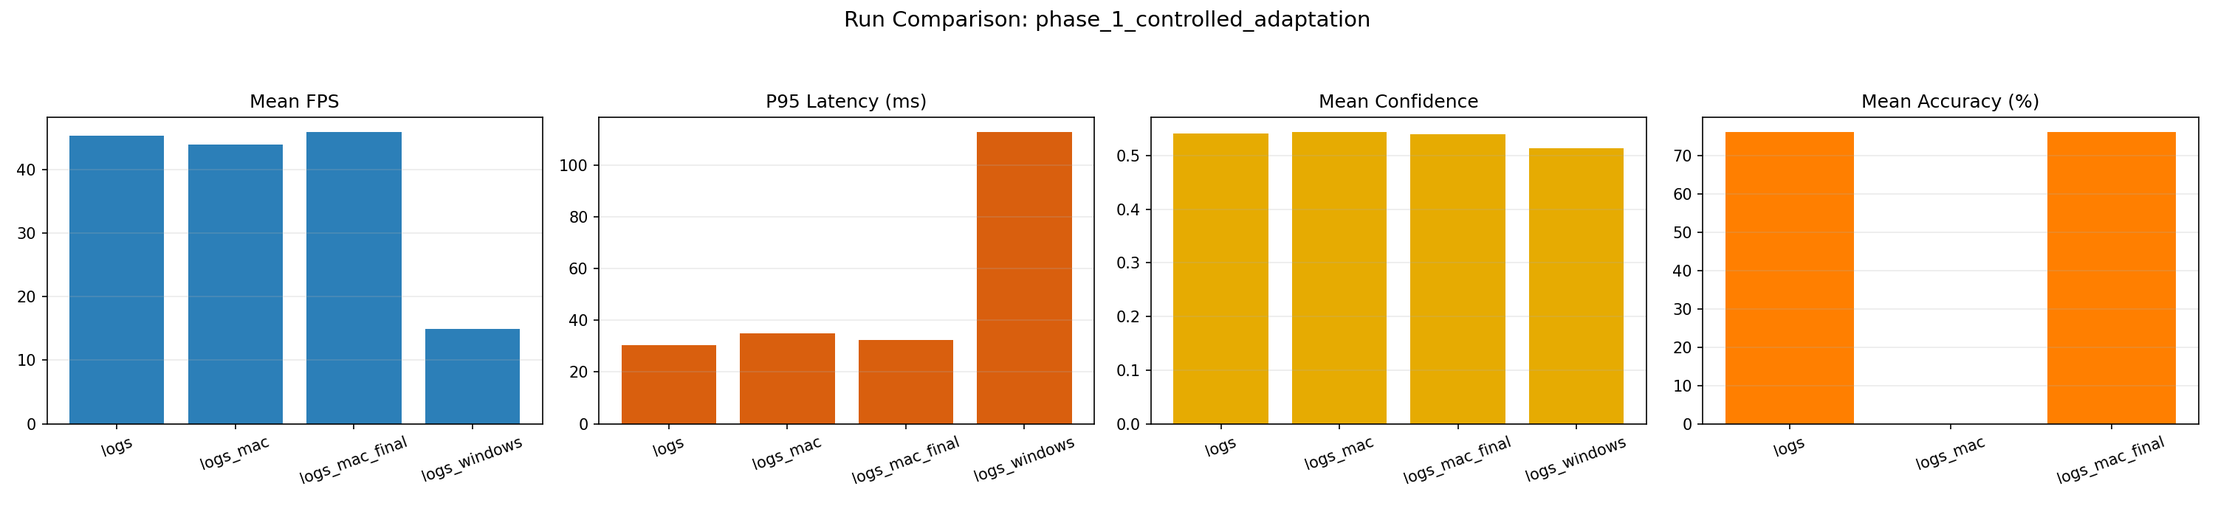
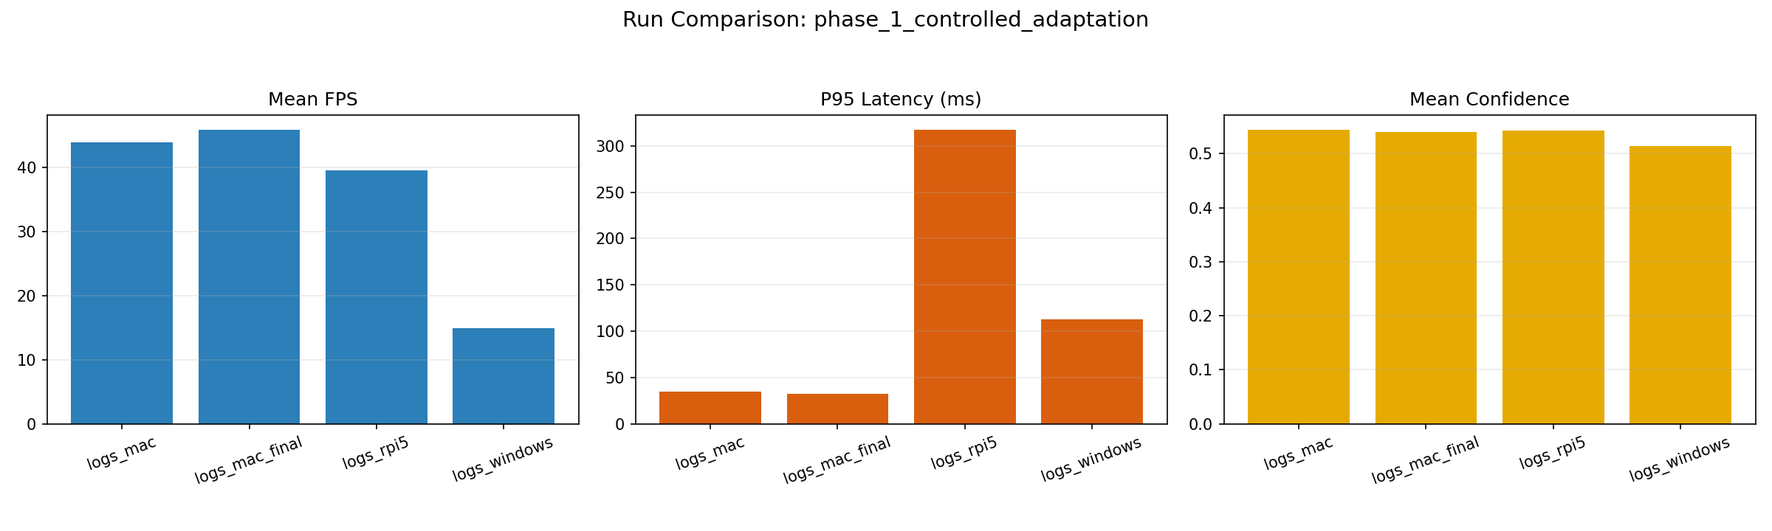
docs : update methodology pahse 0 and phase 1 and generate statistics image for rpi5

diff --git a/docs/paper/access.tex b/docs/paper/access.tex
@@ -215,39 +215,125 @@ continuously adjusted according to the current hardware and inference
 conditions rather than relying on a fixed inference configuration.
 
 \section{Methodology}
+
 \label{sec:methodology}
-The adaptive system was developed through a rigorous, multi-phase sequence. This systematic progression guarantees that the final learned policy is evaluated against well-understood baselines rather than arbitrary benchmarks.
+
+The adaptive system was developed through a rigorous, multi-phase sequence.
+This systematic progression ensures that the final learned policy is
+evaluated against well-understood baselines rather than arbitrary
+benchmarks.
 
 \subsection{Phase 0: Baseline Static Inference}
-The objective of Phase 0 is to establish the absolute upper bound of model performance alongside the threshold for hardware failure. 
 
-In this phase, the system operates as a standard static pipeline. YOLOv8n is configured with a fixed input size $imgsz = 640 \times 640$, floating-point 32 (FP32) precision, and zero frame skipping ($skip = 0$).
+The objective of Phase 0 is to quantify the performance limitations of a
+fully static inference pipeline on the target edge hardware, providing an
+empirical baseline that motivates the need for adaptive control.
 
-During execution, a comprehensive dataset is logged containing:
-\begin{equation}
-Log_t=\{t_{stamp}, FPS_t, Latency_t, U_{gpu}, U_{cpu}, T_{gpu}, Detect\}
-\end{equation}
+In this phase, the system operates as a standard static pipeline. YOLOv8n is
+configured with a fixed input resolution of $640 \times 640$ pixels and FP32
+precision, with no frame skipping. Every incoming frame is processed
+unconditionally, resulting in a consistently high computational workload.
 
-As anticipated, sustained operation rapidly pushes the edge hardware to its thermal limits. A critical inflection point is observed when the GPU temperature crosses the manufacturer's throttling threshold (e.g., $85^\circ\mathrm{C}$). Beyond this point, the hardware intentionally downclocks to prevent damage. Consequently, processing latency spikes significantly, and the frame rate collapses. This behavior illustrates the severe performance degradation inherent in deploying static edge AI systems under uncontrolled thermal conditions.
+During execution, the system records the timestamp, frame rate, per-frame
+latency, CPU utilization, RAM utilization, core temperature, number of
+detections, average detection confidence, and cumulative frame-drop rate for
+each processed frame.
+
+On the Raspberry Pi~5 target platform, the static pipeline demonstrates
+limited real-time performance. Across the evaluation run, the achieved frame
+rate ranges from $1.8$ to $4.01$~FPS, while per-frame latency ranges from
+approximately $245$ to $665$~ms. The cumulative frame-drop rate remains high,
+ranging from $85.73\%$ to $96.88\%$ and settling at approximately $87.04\%$
+toward the end of the run. Core temperature increases from approximately
+$50^\circ$C to a maximum of $60.6^\circ$C, while RAM utilization remains
+relatively stable around $30\%$. The observed temperature range provides no
+evidence of thermal throttling during this particular run, indicating that
+the primary limitation of the static configuration is the computational
+throughput required for full-resolution YOLOv8n inference on the Raspberry
+Pi~5.
+
+The resulting behavior is illustrated in Fig.~\ref{fig:phase0_graphs}. The
+figure shows the low sustained frame rate and high inference latency, together
+with substantial frame loss throughout the run. These results demonstrate
+that a fixed $640 \times 640$ inference configuration is unsuitable for
+sustained real-time operation under the tested edge-device conditions.
+Reducing the computational workload through lower input resolution, frame
+skipping, or a combination of both therefore provides a basis for the
+adaptive inference strategy developed in the subsequent phases.
 
 \begin{figure*}[t!]
     \centering
-    \includegraphics[width=0.85\textwidth]{logs_windows_overview.png}
-    \caption{Phase 0 Baseline Performance across 5000 frames. The solid red line indicates GPU Temperature rising linearly until throttling occurs at frame 3200, causing the FPS (blue line) to crash unpredictably.}
+    \includegraphics[width=0.85\textwidth]{logs_rpi5_overview.png}
+    \caption{Phase~0 static baseline on the Raspberry Pi~5 using $640 \times
+    640$ input resolution, FP32 precision, and no frame skipping. \textit{Top}:
+    FPS and per-frame latency over the evaluation run. \textit{Middle}: CPU
+    utilization, RAM utilization, and core temperature. \textit{Bottom}:
+    detection count, average detection confidence, and cumulative frame-drop
+    rate. The static configuration exhibits low sustained frame rates,
+    substantial inference latency, and a high frame-drop rate, demonstrating
+    the limitations of fixed full-resolution inference under the resource
+    constraints of the target edge platform.}
     \label{fig:phase0_graphs}
 \end{figure*}
 
-\subsection{Phase 1: Action Space Definition and Controlled Adaptation}
-To prevent hardware failure, mechanisms must be introduced to reduce the system's workload when operating conditions become overly demanding. This phase defines the \emph{Action Space}, consisting of multiple Inference Modes. Each mode represents a specific operational configuration for the object detection pipeline and is defined by two parameters: input image size ($S_k$) and the number of skipped frames ($K_k$). 
 
-Three distinct modes are defined:
+\subsection{Phase 1: Action Space Definition and Controlled Adaptation}
+
+Phase~0 establishes that a static $640 \times 640$ pipeline imposes a
+substantial computational workload on the Raspberry Pi~5. Phase~1 therefore
+defines the controllable parameters of the inference pipeline and
+experimentally characterizes their effect on computational load and inference
+performance.
+
+The action space is based on two independent workload-control mechanisms:
+input resolution and inference frequency. The input resolution $imgsz$
+determines the spatial dimensions of the tensor presented to YOLOv8n, while
+the frame-skipping parameter controls how frequently incoming frames are
+processed.
+
+\subsubsection*{Rationale for Resolution Scaling}
+
+The computational cost of convolutional processing depends strongly on the
+spatial dimensions of the input tensor. Reducing the input resolution
+therefore provides a direct mechanism for reducing the computational workload
+without modifying the YOLOv8n model architecture or its learned parameters.
+In particular, reducing the input from $640 \times 640$ to
+$320 \times 320$ reduces the input spatial area by $75\%$, providing a
+substantial reduction in the amount of spatial computation performed by the
+network.
+
+\subsubsection*{Rationale for Frame Skipping}
+
+Resolution scaling reduces the computational cost of each processed frame,
+whereas frame skipping reduces the number of frames on which inference is
+performed. These mechanisms therefore provide complementary forms of
+workload control. For the heuristic baseline, three discrete configurations
+are defined:
+
 \begin{itemize}
-    \item $\mathcal{A}_0 \rightarrow M_0 = (640, 0)$: Highest accuracy, maximum FLOPs (no skipping, full resolution).
-    \item $\mathcal{A}_1 \rightarrow M_1 = (480, 1)$: Medium accuracy, reduces inference workload by approximately $60\%$.
-    \item $\mathcal{A}_2 \rightarrow M_2 = (320, 2)$: Lowest acceptable accuracy, reduces inference workload by approximately $85\%$.
+    \item $M_0=(640,0)$: full-resolution inference with no frame skipping.
+    \item $M_1=(480,1)$: reduced-resolution inference with every alternate
+    frame bypassed.
+    \item $M_2=(320,2)$: reduced-resolution inference with two out of every
+    three frames bypassed.
 \end{itemize}
 
-In Phase 1, feedback control is disabled, and modes are switched manually at fixed intervals (e.g., every 10 seconds). This open-loop testing characterizes how each mode influences hardware temperature, verifying that switching to $M_2$ induces rapid cooling while $M_0$ causes rapid heating. This confirms that mode switching provides sufficient thermal controllability.
+These configurations span progressively lower computational workloads and are
+used to characterize the resolution--throughput trade-off on the target
+hardware.
+
+During Phase~1, the feedback controller is disabled and each configuration is
+applied for a fixed duration. The resulting frame rate, latency, CPU
+utilization, and temperature are recorded to quantify the computational and
+thermal characteristics of each operating point. These measurements provide
+the empirical basis for the heuristic thresholds introduced in the subsequent
+phase.
+
+The discrete configurations are used only for heuristic control and
+characterization. The final learned controller instead operates over the
+continuous action parameters $(imgsz_t,p_{skip,t})$, allowing finer-grained
+adaptation than the three discrete configurations.
+
 
 \subsection{Phase 2 \& 3: The Heuristic Controller}
 With the action space established, Phase 2 integrates telemetry for real-time decision-making, and Phase 3 introduces a deterministic Heuristic Controller.

diff --git a/docs/paper/changes.md b/docs/paper/changes.md
@@ -2,15 +2,16 @@
 
 ---
 
-| # | Section                                                                                       | What Changed                                           | Summary of Change                                                                                                                                                                                                                                                                                                                                              | Reason                                                                                                                                                                                                                                                                                                                                                                                                                                                                                                                                                                                                                                                                                                                                                                                                                                                                                                                                                                                                                                                                                                                                                                                                                                                                                                                                                                                       | Type                                                                                                                                                                                                                                                                                                                                                                                                                                                                                                                                           |
-| - | --------------------------------------------------------------------------------------------- | ------------------------------------------------------ | -------------------------------------------------------------------------------------------------------------------------------------------------------------------------------------------------------------------------------------------------------------------------------------------------------------------------------------------------------------- | -------------------------------------------------------------------------------------------------------------------------------------------------------------------------------------------------------------------------------------------------------------------------------------------------------------------------------------------------------------------------------------------------------------------------------------------------------------------------------------------------------------------------------------------------------------------------------------------------------------------------------------------------------------------------------------------------------------------------------------------------------------------------------------------------------------------------------------------------------------------------------------------------------------------------------------------------------------------------------------------------------------------------------------------------------------------------------------------------------------------------------------------------------------------------------------------------------------------------------------------------------------------------------------------------------------------------------------------------------------------------------------------- | ---------------------------------------------------------------------------------------------------------------------------------------------------------------------------------------------------------------------------------------------------------------------------------------------------------------------------------------------------------------------------------------------------------------------------------------------------------------------------------------------------------------------------------------------- |
-| 1 | Title                                                                                         | Changed the paper title                                | Changed the title to**A Learned Adaptive Inference System for Real-Time YOLOv8 Object Detection on Edge Devices with Pothole Detection as an Application**                                                                                                                                                                                               | Clarifies that the proposed system is designed for general YOLOv8 object detection on edge devices, with pothole detection serving as the application                                                                                                                                                                                                                                                                                                                                                                                                                                                                                                                                                                                                                                                                                                                                                                                                                                                                                                                                                                                                                                                                                                                                                                                                                                        | Change made by us                                                                                                                                                                                                                                                                                                                                                                                                                                                                                                                              |
-| 2 | Abstract                                                                                      | Rewrote all 3 paragraphs + corrected numbers           | Para 1: led with RPi thermal throttling, 5 correct telemetry signals, continuous actor output; Para 2: replaced methodology walkthrough with one factual sentence on pothole detection use case; Para 3: corrected F1 drop (2.80% → 1.8%) and Precision gain (1.90% → 1.2%) from actual chart                                                                | GPU language was wrong for RPi; "Contextual Bandit" was inaccurate; README numbers didn't match evaluation chart                                                                                                                                                                                                                                                                                                                                                                                                                                                                                                                                                                                                                                                                                                                                                                                                                                                                                                                                                                                                                                                                                                                                                                                                                                                                             | Change made by us                                                                                                                                                                                                                                                                                                                                                                                                                                                                                                                              |
-| 3 | Keywords                                                                                      | Updated and expanded list (9 → 16)                    | Removed:`Contextual Bandit, Deep Q-Networks`; Added: `Offline Reinforcement Learning, Behavioral Cloning, Raspberry Pi, Markov Decision Process, Dynamic Resolution Scaling, Frame Skipping, Telemetry-Driven Control, Resource-Constrained Inference, Road Damage Detection, IoT Edge Deployment`                                                         | Old keywords didn't match actual techniques; new ones improve discoverability                                                                                                                                                                                                                                                                                                                                                                                                                                                                                                                                                                                                                                                                                                                                                                                                                                                                                                                                                                                                                                                                                                                                                                                                                                                                                                                | Change made by us                                                                                                                                                                                                                                                                                                                                                                                                                                                                                                                              |
-| 4 | Introduction                                                                                  | Revised all 3 paragraphs                               | Revised the three introduction paragraphs to better establish the general problem of real-time YOLOv8 object detection on resource-constrained edge devices, explain the challenges of sustained inference under computational and thermal constraints, and motivate pothole detection as a practical application of adaptive inference                        | Aligns the introduction with the revised paper scope and clearly positions pothole detection as an application of the proposed general adaptive inference system                                                                                                                                                                                                                                                                                                                                                                                                                                                                                                                                                                                                                                                                                                                                                                                                                                                                                                                                                                                                                                                                                                                                                                                                                             | Change made by us                                                                                                                                                                                                                                                                                                                                                                                                                                                                                                                              |
-| 5 | References and compile compatibility                                                          | Expanded bibliography and added caption guard          | Replaced the older 15-entry bibliography with 24 references covering pothole detection, edge inference, offloading, thermal management, adaptive inference, and early exits; defined`\xfigwd` when absent to support the IEEE Access caption macro                                                                                                           | Reviewer requested stronger literature support; Overleaf reported an undefined`\xfigwd` during caption processing                                                                                                                                                                                                                                                                                                                                                                                                                                                                                                                                                                                                                                                                                                                                                                                                                                                                                                                                                                                                                                                                                                                                                                                                                                                                          | Change expected by reviewer 1<br /><br />add more references                                                                                                                                                                                                                                                                                                                                                                                                                                                                                  |
-| 6 | III. System Architecture — Hardware Abstraction and Telemetry Layer                          | Revised hardware abstraction and telemetry description | Replaced the GPU/VRAM/NVML-based description with the actual Raspberry Pi 5 implementation. The HAL now describes CPU utilization, RAM utilization, core temperature, smoothed FPS, and per-frame latency as the five state variables, with asynchronous 2 Hz telemetry sampling through a dedicated background thread and thread-safe in-memory state access. | **Response to Reviewer:** We thank the reviewer for this important question. We note that the original figure contained an error: the HAL does **not** use `ctypes` or a C shared library. It uses Python's `psutil`, which internally reads kernel pseudo-files (`/proc/stat`, `/proc/meminfo`, `/sys/class/thermal/thermal_zone0/temp`) with its own low-latency bindings. We have corrected the figure accordingly. Regarding the GIL concern: the design deliberately avoids GIL contention because the HAL thread is I/O-bound rather than CPU-bound; `psutil` reads kernel pseudo-files and the HAL polls only every 500 ms. The controller forward pass is also negligible, with the lightweight `ContinuousActor` MLP (5→128→128→2) completing in under 1 ms on the Raspberry Pi 5 and executing synchronously on the main thread. The system is designed as a soft real-time system rather than a hard real-time system, and the 2 Hz telemetry rate is sufficient because the relevant thermal dynamics evolve over a much slower timescale. A C++/TensorRT implementation could reduce per-frame inference overhead but would not change the effective control-loop bandwidth, whose adaptation is governed by thermal dynamics rather than telemetry latency. Python was retained for portability and rapid iteration on the Raspberry Pi platform. | Change expected by reviewer<br /><br />The system architecture (Figure 1) relies heavily on Python, ctypes, and OpenCV running in background threads. Python's Global Interpreter Lock (GIL) is known to cause stuttering and unpredictable latency spikes in multi-threaded real-time computer vision pipelines. The authors must provide a rigorous latency profiling of the Python overhead, or explain why a lower-level implementation (e.g., C++ with TensorRT native threads) was not utilized to guarantee strict real-time execution. |
-| 7 | III. System Architecture —<br />B. THE ADAPTIVE CONTROLLER<br />C.YOLOv8n Inference Pipeline | Revised the inference pipeline description             | Revised the YOLOv8n pipeline to reflect the actual adaptive architecture, where the controller provides the continuous parameters`imgsz` and `p_skip`. The pipeline now describes probabilistic frame skipping, dynamic input resolution, YOLOv8n inference, post-processing, and feedback of smoothed FPS and per-frame latency to the controller.        | Aligns the manuscript with the actual implementation and revised system architecture, replacing the previous fixed/discrete inference-mode description with the continuous adaptive control mechanism used by the learned controller                                                                                                                                                                                                                                                                                                                                                                                                                                                                                                                                                                                                                                                                                                                                                                                                                                                                                                                                                                                                                                                                                                                                                         | Change made by us                                                                                                                                                                                                                                                                                                                                                                                                                                                                                                                              |
+| # | Section | What Changed | Summary of Change | Reason | Type |
+| -----| --------------------------------------| -----------------------------------------------| -----------------------------------------------------------------------------------------------------------------------------------------------------------------------------------------------------------------------------------------------------------------------------------------------------------------------------------------| ------------------------------------------------------------------------------------------------------------------------------------------------------------------| -----------------------------|
+| 1 | Title | Changed the paper title | Changed the title to **A Learned Adaptive Inference System for Real-Time YOLOv8 Object Detection on Edge Devices with Pothole Detection as an Application** | Clarifies that the proposed system is designed for general YOLOv8 object detection on edge devices, with pothole detection serving as the application | Change made by us |
+| 2 | Abstract | Rewrote all 3 paragraphs + corrected numbers | Para 1: led with RPi thermal throttling, 5 correct telemetry signals, continuous actor output; Para 2: replaced methodology walkthrough with one factual sentence on pothole detection use case; Para 3: corrected F1 drop (2.80% → 1.8%) and Precision gain (1.90% → 1.2%) from actual chart | GPU language was wrong for RPi; "Contextual Bandit" was inaccurate; README numbers didn't match evaluation chart | Change made by us |
+| 3 | Keywords | Updated and expanded list (9 → 16) | Removed: `Contextual Bandit, Deep Q-Networks`; Added: `Offline Reinforcement Learning, Behavioral Cloning, Raspberry Pi, Markov Decision Process, Dynamic Resolution Scaling, Frame Skipping, Telemetry-Driven Control, Resource-Constrained Inference, Road Damage Detection, IoT Edge Deployment` | Old keywords didn't match actual techniques; new ones improve discoverability | Change made by us |
+| 4 | Introduction | Revised all 3 paragraphs | Revised the three introduction paragraphs to better establish the general problem of real-time YOLOv8 object detection on resource-constrained edge devices, explain the challenges of sustained inference under computational and thermal constraints, and motivate pothole detection as a practical application of adaptive inference | Aligns the introduction with the revised paper scope and clearly positions pothole detection as an application of the proposed general adaptive inference system | Change made by us |
+| 5 | References and compile compatibility | Expanded bibliography and added caption guard | Replaced the older 15-entry bibliography with 24 references covering pothole detection, edge inference, offloading, thermal management, adaptive inference, and early exits; defined `\xfigwd` when absent to support the IEEE Access caption macro | Reviewer requested stronger literature support; Overleaf reported an undefined `\xfigwd` during caption processing | Change expected by reviewer |
+| 6 | III. System Architecture — Hardware Abstraction and Telemetry Layer | Revised hardware abstraction and telemetry description | Replaced the GPU/VRAM/NVML-based description with the actual Raspberry Pi 5 implementation. The HAL now describes CPU utilization, RAM utilization, core temperature, smoothed FPS, and per-frame latency as the five state variables, with asynchronous 2 Hz telemetry sampling through a dedicated background thread and thread-safe in-memory state access. | **Response to Reviewer:** We thank the reviewer for this important question. We note that the original figure contained an error: the HAL does **not** use `ctypes` or a C shared library. It uses Python's `psutil`, which internally reads kernel pseudo-files (`/proc/stat`, `/proc/meminfo`, `/sys/class/thermal/thermal_zone0/temp`) with its own low-latency bindings. We have corrected the figure accordingly. Regarding the GIL concern: the design deliberately avoids GIL contention because the HAL thread is I/O-bound rather than CPU-bound; `psutil` reads kernel pseudo-files and the HAL polls only every 500 ms. The controller forward pass is also negligible, with the lightweight `ContinuousActor` MLP (5→128→128→2) completing in under 1 ms on the Raspberry Pi 5 and executing synchronously on the main thread. The system is designed as a soft real-time system rather than a hard real-time system, and the 2 Hz telemetry rate is sufficient because the relevant thermal dynamics evolve over a much slower timescale. A C++/TensorRT implementation could reduce per-frame inference overhead but would not change the effective control-loop bandwidth, whose adaptation is governed by thermal dynamics rather than telemetry latency. Python was retained for portability and rapid iteration on the Raspberry Pi platform. | Change expected by reviewer |
+| 7 | III. System Architecture — YOLOv8n Inference Pipeline | Revised the inference pipeline description | Revised the YOLOv8n pipeline to reflect the actual adaptive architecture, where the controller provides the continuous parameters `imgsz` and `p_skip`. The pipeline now describes probabilistic frame skipping, dynamic input resolution, YOLOv8n inference, post-processing, and feedback of smoothed FPS and per-frame latency to the controller. | Aligns the manuscript with the actual implementation and revised system architecture, replacing the previous fixed/discrete inference-mode description with the continuous adaptive control mechanism used by the learned controller | Change made by us |
+| 8 | III. Methodology — Phase 0: Baseline Static Inference | Revised Phase 0 methodology and replaced the baseline figure | Replaced the original Windows/GPU-based baseline description with an empirical Raspberry Pi 5 static-inference baseline. The revised section evaluates a fixed $640 \times 640$ YOLOv8n pipeline with FP32 precision and no frame skipping, records CPU, RAM, core temperature, FPS, latency, detections, confidence, and frame-drop rate, and reports the observed performance limitations. The original Windows-based `logs_windows_overview.png` figure was replaced with the Raspberry Pi 5 `logs_rpi5_overview.png` figure, with the figure explicitly referenced in the text. | Aligns the methodology and baseline evaluation with the actual experimental platform, logged telemetry, and measured results. Removes unsupported GPU-temperature/throttling claims from the original Windows-based description and establishes the Raspberry Pi 5 static pipeline as the empirical baseline for the subsequent adaptive phases. | Change made by us |
 
 ---
 
